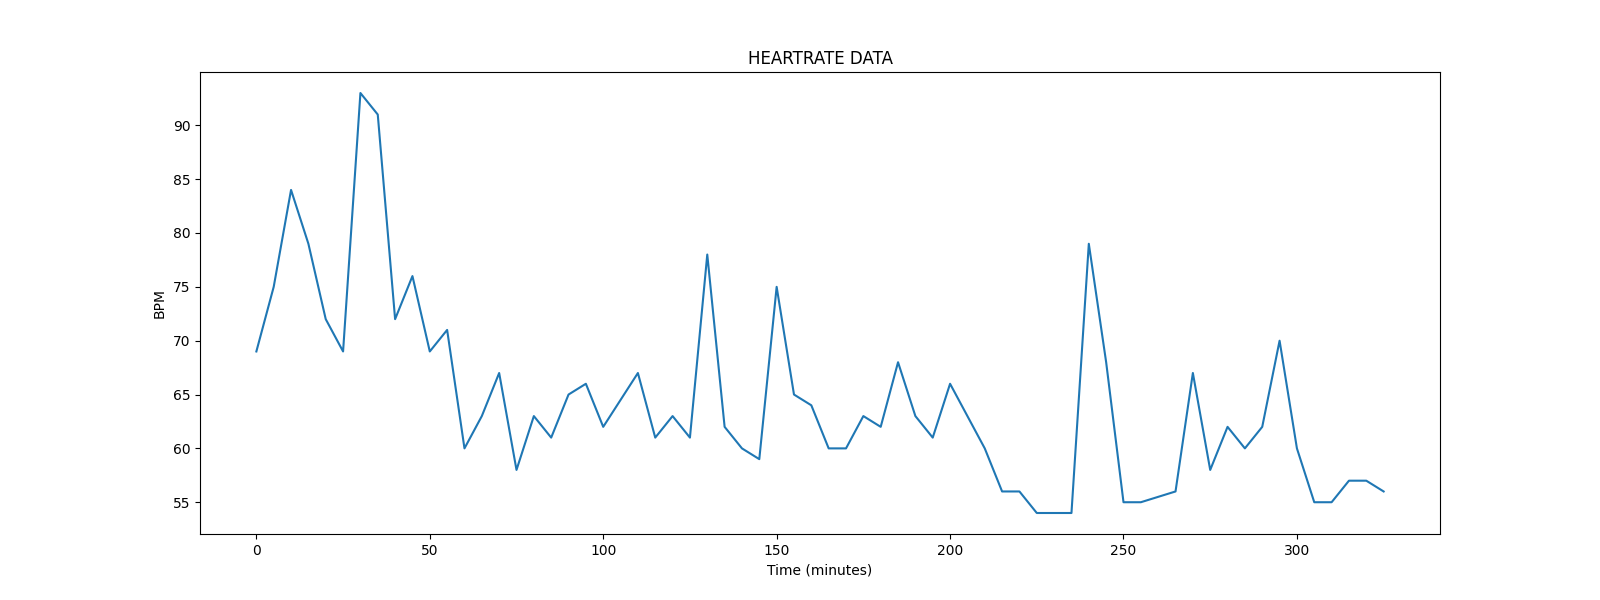
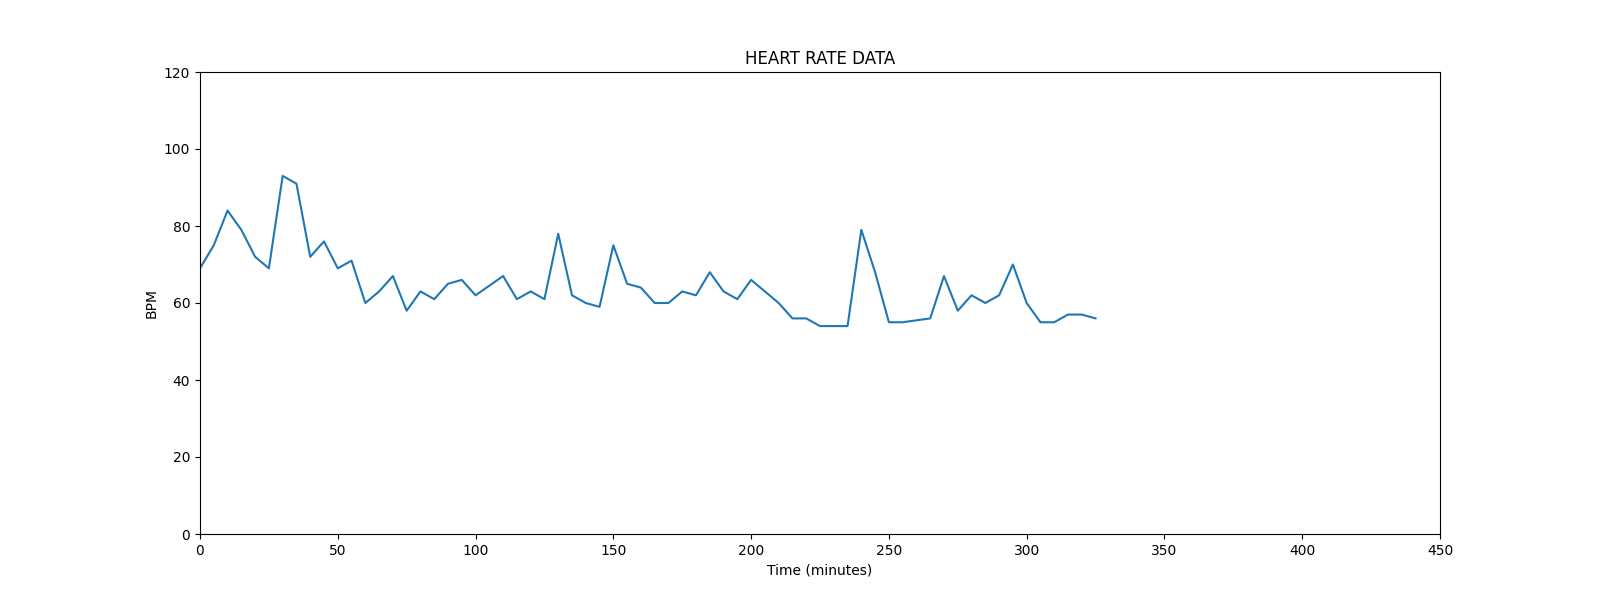
1st attempt at completing project

diff --git a/main.py b/main.py
@@ -6,7 +6,7 @@ perform comprehensive analysis
 from metrics import average, maximum, standard_deviation
 from cleaner import filter_nondigits, plot_adjusted_data
 
-import matplotlib.pyplot as plt
+#import matplotlib.pyplot as plt
 
 
 def run(filename: str) -> None:
@@ -36,6 +36,8 @@ def run(filename: str) -> None:
     ''' N O T E:
     In order to accurately map each data point to every associated 5 minute sampling interval
     We must refer to the original data...
+
+    * Function imported from cleaner.py *
     '''
 
     plot_adjusted_data(data, cleaned_data, filename.strip('.txt').strip('/data/'))
@@ -46,14 +48,15 @@ def run(filename: str) -> None:
     max_hr = maximum(cleaned_data)
     std_dev_hr = standard_deviation(cleaned_data)
 
+    #close the file
+    file.close()
     # return all 3 values
     return avg_hr, max_hr, std_dev_hr
 
-
 if __name__ == "__main__":
-    print(run("data/phase0.txt"))
-    print(run("data/phase1.txt"))
-    print(run("data/phase2.txt"))
-    print(run("data/phase3.txt"))
+    print("Phase0:", run("data/phase0.txt"))
+    print("Phase1:", run("data/phase1.txt"))
+    print("Phase2:", run("data/phase2.txt"))
+    print("Phase3:", run("data/phase3.txt"))
 
 

diff --git a/cleaner.py b/cleaner.py
@@ -1,6 +1,5 @@
 import matplotlib.pyplot as plt
 
-
 def filter_nondigits(data: list) -> list:
     """
     Takes in a list of new-line separated variables, 
@@ -70,9 +69,11 @@ def plot_adjusted_data(data: list, cleaned_data: list, filename: str) -> None:
 
 
     plt.figure(figsize=(16,6))
+    plt.xlim(0, 450)
+    plt.ylim(0, 120)
     plt.plot(x_vars, y_vars)
 
-    plt.title('HEARTRATE DATA')
+    plt.title('HEART RATE DATA')
     plt.xlabel('Time (minutes)')
     plt.ylabel('BPM')
 

diff --git a/writeup.md b/writeup.md
@@ -2,22 +2,22 @@
 
 Take a look at the file labeled `data/phase0.txt`. Why might we have missing values or values that state "NO DATA" in this dataset? While we are currently ignoring these values, what might be the risk of filtering these values out?
 
-[Answer here]
+[ANS: We may have missing values because of the device itself having trouble taking a detectable BPM. Filtering out these values risks showing an inaccurate distribution of the data because, instead of having data for every 5 minutes of wear, it will instead be shifted over an additional 5 minutes for every missing value. It may also result in odd jumps in the line graph when plotted!]
 
 ## Question 2
 
 During sleep, we expect maximum heart rate of a phase to be **lower** than the maximum heart rate of all other phases. Observe the visualizations and descriptive statistics that you've calculated. Using these findings, in which phase does sleep occur? Mention numerical details that back your findings.
 
-[Answer here]
+[ANS: Phase0 has a maximum of 93 BPM, the lowest of all 4 phases. However, it shows an average of 64.59 BPM which is higher than Phase3's (of 60.65 BPM). Looking at the plotted data it becomes more clear that Phase3 has a more consistent looking pattern of low BPMs. (The peaks in this graph may be due to movement during sleep). Therefore, I predict Phase3 to be the phase in which sleep is occuring.]
 
 ## Question 3
 
-During exercise, we expect the maximum heart rate of a phase to be **higher** the maximum heart rate of all other phases. Observe the visualizations and descriptive statistics that you've calculated. Using these findings, in which phase(s) does exercise occur? Mention numerical details that back your findings. 
+During exercise, we expect the maximum heart rate of a phase to be **higher** than the maximum heart rate of all other phases. Observe the visualizations and descriptive statistics that you've calculated. Using these findings, in which phase(s) does exercise occur? Mention numerical details that back your findings. 
 
-[Answer here]
+[ANS: Phase2 has the highest maximum heart rate of all other phases. Its graph also hovers around its average value, 85.18 BPM which, although it is lower than Phase1's average, its higher standard deviation may contribute to this lower average. One possible reason for this widely varying spread of data in Phase2 could be that during exercise the device recording heart rates is having trouble getting an accurate reading. Therefore, Phase2 is most likely the phase in which exercise is occuring.]
 
 ## Question 4
 
 During regular periods of awake activity, we expect the average heart rate of a phase to be relatively **lower** than the average heart rate of other phases, but we also expect standard deviation to be **higher**. In which phase do we notice this trend?
 
-[Answer here]
+[ANS: Of the remaining phases (Phase0 and Phase1), Phase0 has the lowest average heartrate. However, Phase1 has the second lowest average heartrate and a higher standard deviation than Phase0, therefore the most likely phase where awake activity is occuring is in Phase1.]
